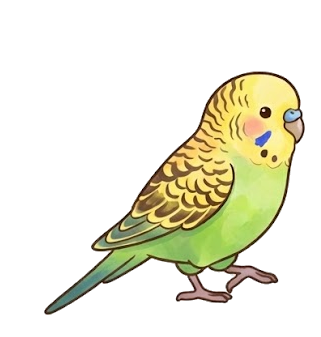
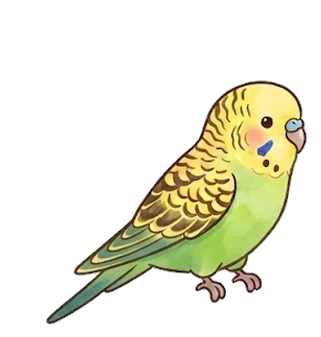
Ciccio: da fermo ha le due zampe a terra allo stesso livello
Il fermo era un fotogramma di passo, con un piede sollevato. Ora è il primo fotogramma delle ali
(ali chiuse, le zampe a terra): è anche il punto da cui parte e dove torna il battito d'ali.

Changed region(s): [[0.1246, 0.2077, 0.9657, 0.9792]]

diff --git a/Sources/Bonsy/Pet.swift b/Sources/Bonsy/Pet.swift
@@ -124,7 +124,7 @@ struct Pet: Equatable {
     static let ciccio = Pet(
         id: "ciccio",
         name: "Ciccio",
-        imageResources: (1...13).map { "ciccio_frame\($0)" },   // 1 fermo, 2-7 cammino, 8-13 ali
+        imageResources: (1...13).map { "ciccio_frame\($0)" },   // 1 fermo (ali chiuse, le due zampe a terra), 2-7 cammino, 8-13 ali
         size: NSSize(width: 112, height: 118),
         quotesResource: "frasi_bonsy",
         quotesUserFile: "frasi_bonsy.txt",
@@ -132,8 +132,8 @@ struct Pet: Equatable {
         greeting: "Ciao! Sono Ciccio. Facciamo due passi?",
         shadowWidthFraction: 0.45,
         groundFraction: 0.1009,
-        iconCrop: NSRect(x: 0.436, y: 0.436, width: 0.53, height: 0.38),   // la testa
-        iconFocus: 0.70,
+        iconCrop: NSRect(x: 0.452, y: 0.430, width: 0.508, height: 0.344),   // la testa
+        iconFocus: 0.72,
         walks: true,
         walkFrames: [1, 2, 3, 4, 5, 6],        // il ciclo dei passi
         stepInterval: 0.1,

diff --git a/tools/cutout_ciccio.py b/tools/cutout_ciccio.py
@@ -6,7 +6,8 @@ Due tavole, ognuna con 6 fotogrammi (2 righe da 3):
   flap_original.png   lo sbattere le ali sul posto
 
 Escono 13 immagini, tutte sulla stessa tela, appoggiate sui piedi e allineate sul becco:
-  frame1       fermo (il passaggio della camminata, con le zampe vicine)
+  frame1       fermo: il primo fotogramma delle ali (ali chiuse, le due zampe a terra allo stesso livello);
+               è anche dove parte e dove torna il battito d'ali
   frame2..7    i 6 fotogrammi della camminata
   frame8..13   i 6 fotogrammi delle ali
 
@@ -20,7 +21,6 @@ from PIL import Image
 WALK = "assets/ciccio/walk_original.png"
 FLAP = "assets/ciccio/flap_original.png"
 OUT = "assets/ciccio/frame{}.png"
-REST_FROM_WALK = 2          # il passaggio con le zampe vicine (1..6)
 BG_MIN = 246
 HALO_MIN = 228              # le penne chiare delle ali: più alto che per le piante
 MIN_POCKET = 40
@@ -156,7 +156,7 @@ def main():
     print(f"scala delle ali rispetto alla camminata: {flap_scale:.3f}")
 
     # Tutte le immagini nell'ordine finale, ognuna con la sua scala.
-    sources = [(walk[REST_FROM_WALK - 1], 1.0)] + [(f, 1.0) for f in walk] + [(f, flap_scale) for f in flap]
+    sources = [(flap[0], flap_scale)] + [(f, 1.0) for f in walk] + [(f, flap_scale) for f in flap]
     items = []
     for f, k in sources:
         img = Image.fromarray(f["rgba"], "RGBA")

diff --git a/README.md b/README.md
@@ -147,7 +147,7 @@ assets/
   porcellino/frame*.png       fotogrammi ritagliati e allineati (1-5 cammino, 6-10 mangia, 11-14 dorme, 15-19 popcorning), da tools/cutout_porcellino.py
   porcellino/picked_original.png, picked.png   il porcellino sollevato (tools/cutout_picked.py)
   ciccio/walk_original.png, flap_original.png   le tavole della cocorita (camminata e ali, 6 fotogrammi ciascuna)
-  ciccio/frame1..13.png   fermo, 6 di camminata, 6 di ali (tools/cutout_ciccio.py)
+  ciccio/frame1..13.png   fermo (ali chiuse, zampe a terra), 6 di camminata, 6 di ali (tools/cutout_ciccio.py)
   AppIcon.icns          icona dell'app (generata da tools/make_icon.py)
 tools/                  script per ritagli, icona e pose di Simulazione (Python con Pillow e numpy; make_simulazione.sh usa Swift)
 build.sh                compila e crea build/Bonsy.app
